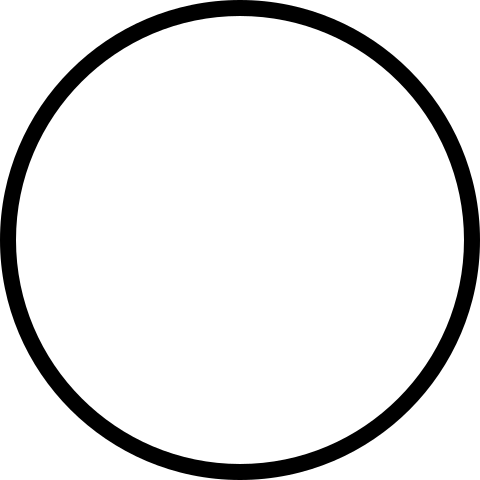
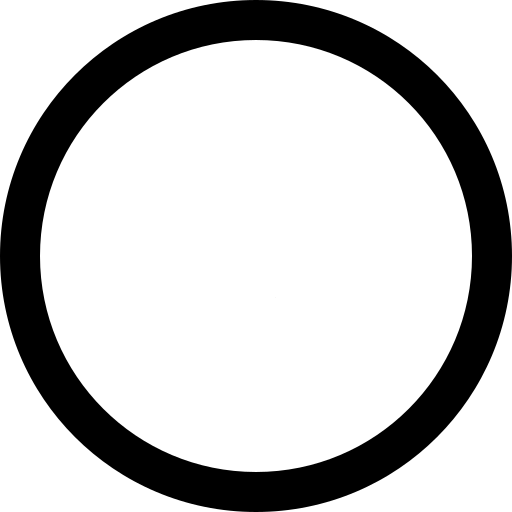
Add UI

Changed region(s): [[0.0312, 0.0312, 0.9688, 0.9688]]

diff --git a/TicTacToe.App/TicTacToe.App/MainWindow.xaml b/TicTacToe.App/TicTacToe.App/MainWindow.xaml
@@ -3,17 +3,59 @@
         xmlns:x="http://schemas.microsoft.com/winfx/2006/xaml"
         xmlns:d="http://schemas.microsoft.com/expression/blend/2008"
         xmlns:mc="http://schemas.openxmlformats.org/markup-compatibility/2006"
-        xmlns:svgc="http://sharpvectors.codeplex.com/svgc/"
         xmlns:local="clr-namespace:TicTacToe.App"
         mc:Ignorable="d"
-        Title="{Binding Title}" Height="250" Width="200"
-        DataContext="{Binding Main, Source={StaticResource Locator}}">
+        Height="245" Width="183"
+        ResizeMode="NoResize"
+        DataContext="{Binding Main, Source={StaticResource Locator}}"
+        Icon="Resources/tic-tac-toe.png">
+    <Window.Resources>
+        <Style TargetType="Image" x:Key="XOImageStyle">
+            <Style.Triggers>
+                <DataTrigger Binding="{Binding Value}"
+                             Value ="True">
+                    <Setter Property="Source" Value="Resources/cross.png" />
+                </DataTrigger>
+                <DataTrigger Binding="{Binding Value}"
+                             Value ="False">
+                    <Setter Property="Source" Value="Resources/circle.png" />
+                </DataTrigger>
+                <DataTrigger Binding="{Binding Value}"
+                             Value ="{x:Null}">
+                    <Setter Property="Source" Value="{x:Null}" />
+                </DataTrigger>
+            </Style.Triggers>
+        </Style>
+        <Style TargetType="Image" x:Key="MoveStyle">
+            <Style.Triggers>
+                <DataTrigger Binding="{Binding IsX}"
+                             Value ="True">
+                    <Setter Property="Source" Value="Resources/cross.png" />
+                </DataTrigger>
+                <DataTrigger Binding="{Binding IsX}"
+                             Value ="False">
+                    <Setter Property="Source" Value="Resources/circle.png" />
+                </DataTrigger>
+            </Style.Triggers>
+        </Style>
+    </Window.Resources>
     <Grid>
         <Grid.RowDefinitions>
             <RowDefinition Height="*"/>
             <RowDefinition Height="Auto"/>
         </Grid.RowDefinitions>
-        <ItemsControl ItemsSource="{Binding XOsVievModels}" Grid.Row="1" Name ="XOsList">
+        <Grid>
+            <Grid.ColumnDefinitions>
+                <ColumnDefinition Width="*"/>
+                <ColumnDefinition Width="Auto"/>
+            </Grid.ColumnDefinitions>
+            <StackPanel Orientation="Horizontal">
+                <Button Content="Restart" Margin="5" Height="30" Command="{Binding RestartCommand}"/>
+            </StackPanel>
+            <Image Style="{StaticResource MoveStyle}"
+                   Height="20" Width="20" Grid.Column="1" Margin="5"/>
+        </Grid>
+        <ItemsControl ItemsSource="{Binding XOsVievModels}" Grid.Row="1" Name ="XOsList" Margin="5">
             <ItemsControl.ItemsPanel>
                 <ItemsPanelTemplate>
                     <WrapPanel/>
@@ -21,11 +63,10 @@
             </ItemsControl.ItemsPanel>
             <ItemsControl.ItemTemplate>
                 <DataTemplate>
-                    <Border BorderThickness="5" CornerRadius="5">
-                        <Button Height="45" Command="{Binding ElementName=XOsList, Path=DataContext.MoveCommand}"
-                                CommandParameter="{Binding .}" Width="45" Background="AntiqueWhite">
-                            <!--<ContentPresenter Content="Resources/close.png" />-->
-                            <Image Source="Resources/close.png"></Image>
+                    <Border BorderThickness="1" BorderBrush="Gray">
+                        <Button Height="50" Command="{Binding ElementName=XOsList, Path=DataContext.MoveCommand}"
+                                CommandParameter="{Binding .}" Width="50" Background="AntiqueWhite">
+                            <Image Style="{StaticResource XOImageStyle}"/>
                         </Button>
                     </Border>
                 </DataTemplate>

diff --git a/TicTacToe.App/TicTacToe.App/App.xaml b/TicTacToe.App/TicTacToe.App/App.xaml
@@ -2,7 +2,7 @@
              xmlns:viewModel="clr-namespace:TicTacToe.Logics.ViewModel;assembly=TicTacToe.Logics">
   <Application.Resources>
     <ResourceDictionary>
-      <viewModel:ViewModelLocator x:Key="Locator" />
+      <viewModel:ViewModelLocator x:Key="Locator"></viewModel:ViewModelLocator>
     </ResourceDictionary>
   </Application.Resources>
 </Application>

diff --git a/TicTacToe.Logics/TicTacToe.Logics/ViewModel/MainViewModel.cs b/TicTacToe.Logics/TicTacToe.Logics/ViewModel/MainViewModel.cs
@@ -21,6 +21,7 @@ namespace TicTacToe.Logics.ViewModel
     public class MainViewModel : ViewModelBase
     {
         private readonly IXOsVievModelFactory _xOsVievModelFactory;
+        private bool _isX;
 
         /// <summary>
         /// Initializes a new instance of the MainViewModel class.
@@ -29,7 +30,8 @@ namespace TicTacToe.Logics.ViewModel
         {
             _xOsVievModelFactory = xOsVievModelFactory;
             XOsVievModels = _xOsVievModelFactory.CreateXoCollection();
-            MoveCommand = new RelayCommand<IXOsVievModel>(OnMoveCommand, CanMove());
+            MoveCommand = new RelayCommand<IXOsVievModel>(OnMoveCommand);
+            RestartCommand = new RelayCommand(OnResetCommand);
             ////if (IsInDesignMode)
             ////{
             ////    // Code runs in Blend --> create design time data.
@@ -40,11 +42,18 @@ namespace TicTacToe.Logics.ViewModel
             ////}
         }
 
+
         public RelayCommand<IXOsVievModel> MoveCommand { get; }
+        public RelayCommand RestartCommand { get; }
 
-        public ObservableCollection<IXOsVievModel> XOsVievModels { get; set; }
 
-        public string Title => "Hello TicTacToe Game";
+        public ObservableCollection<IXOsVievModel> XOsVievModels { get;}
+
+        public bool IsX
+        {
+            get => _isX;
+            set =>  Set(ref _isX, value);
+        }
 
         #region private methods
 
@@ -52,15 +61,20 @@ namespace TicTacToe.Logics.ViewModel
         {
             if (osVievModel.Value == null)
             {
-                osVievModel.SetXorO(true);
+                osVievModel.SetXorO(IsX);
+                IsX = !IsX;
             }
         }
 
-        private bool CanMove()
+        private void OnResetCommand()
         {
-            return true;
-        }
+            foreach (var xOsVievModel in XOsVievModels)
+            {
+                xOsVievModel.ResetValue();
+            }
 
+            IsX = true;
+        }
         #endregion
     }
 }
